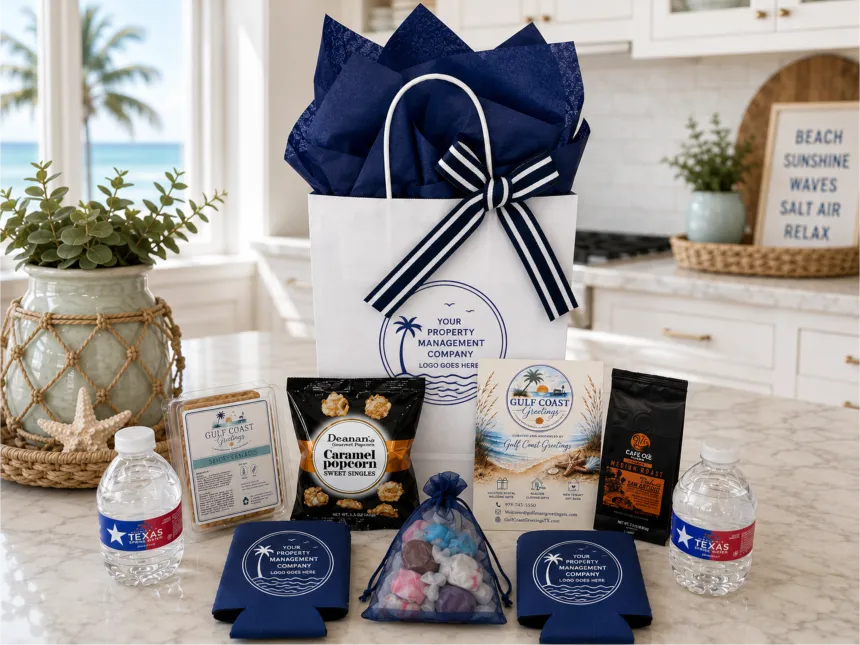
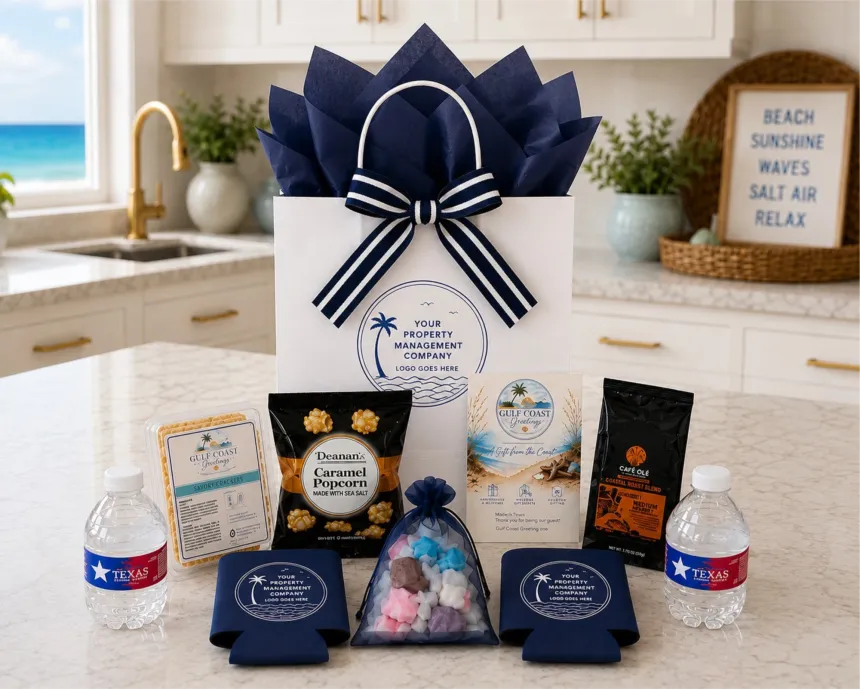
Add 3-bag size lineup above cards; refresh gallery with cleaner bag+items photos

diff --git a/index.html b/index.html
@@ -186,6 +186,9 @@
   .bag-figure{margin:10px auto 14px;display:flex;align-items:flex-end;justify-content:center;min-height:190px}
   .bag-figure svg{height:auto;display:block;filter:drop-shadow(0 12px 16px rgba(22,50,79,.18))}
   .bag-figure img{width:100%;max-width:215px;height:215px;object-fit:cover;object-position:center 64%;border-radius:16px;box-shadow:0 14px 24px rgba(22,50,79,.2)}
+  .lineup{max-width:900px;margin:4px auto 40px;text-align:center}
+  .lineup img{width:100%;border-radius:var(--radius);box-shadow:var(--shadow)}
+  .lineup figcaption{margin-top:12px;color:var(--teal-dk);font-weight:700;letter-spacing:.02em;font-size:.95rem}
   .bagcard h3{font-size:1.22rem}
   .bagcard .size{display:inline-block;margin:8px 0 10px;font-weight:800;color:var(--teal-dk);
     font-size:.76rem;letter-spacing:.11em;text-transform:uppercase}
@@ -451,6 +454,10 @@
       <h2>Our curated welcome bags</h2>
       <p>Pre-made and stocked with Texas finds, our welcome bags come in three sizes — each finished with a customized card and your logo on the front for effortless property-manager branding.</p>
     </div>
+    <figure class="lineup reveal">
+      <img src="assets/bags-lineup.webp" alt="Small, medium and large Gulf Coast Greetings welcome bags side by side" loading="lazy" />
+      <figcaption>Three sizes — Small, Medium &amp; Large</figcaption>
+    </figure>
     <div class="bags3">
       <div class="bagcard reveal">
         <div class="bag-figure">
